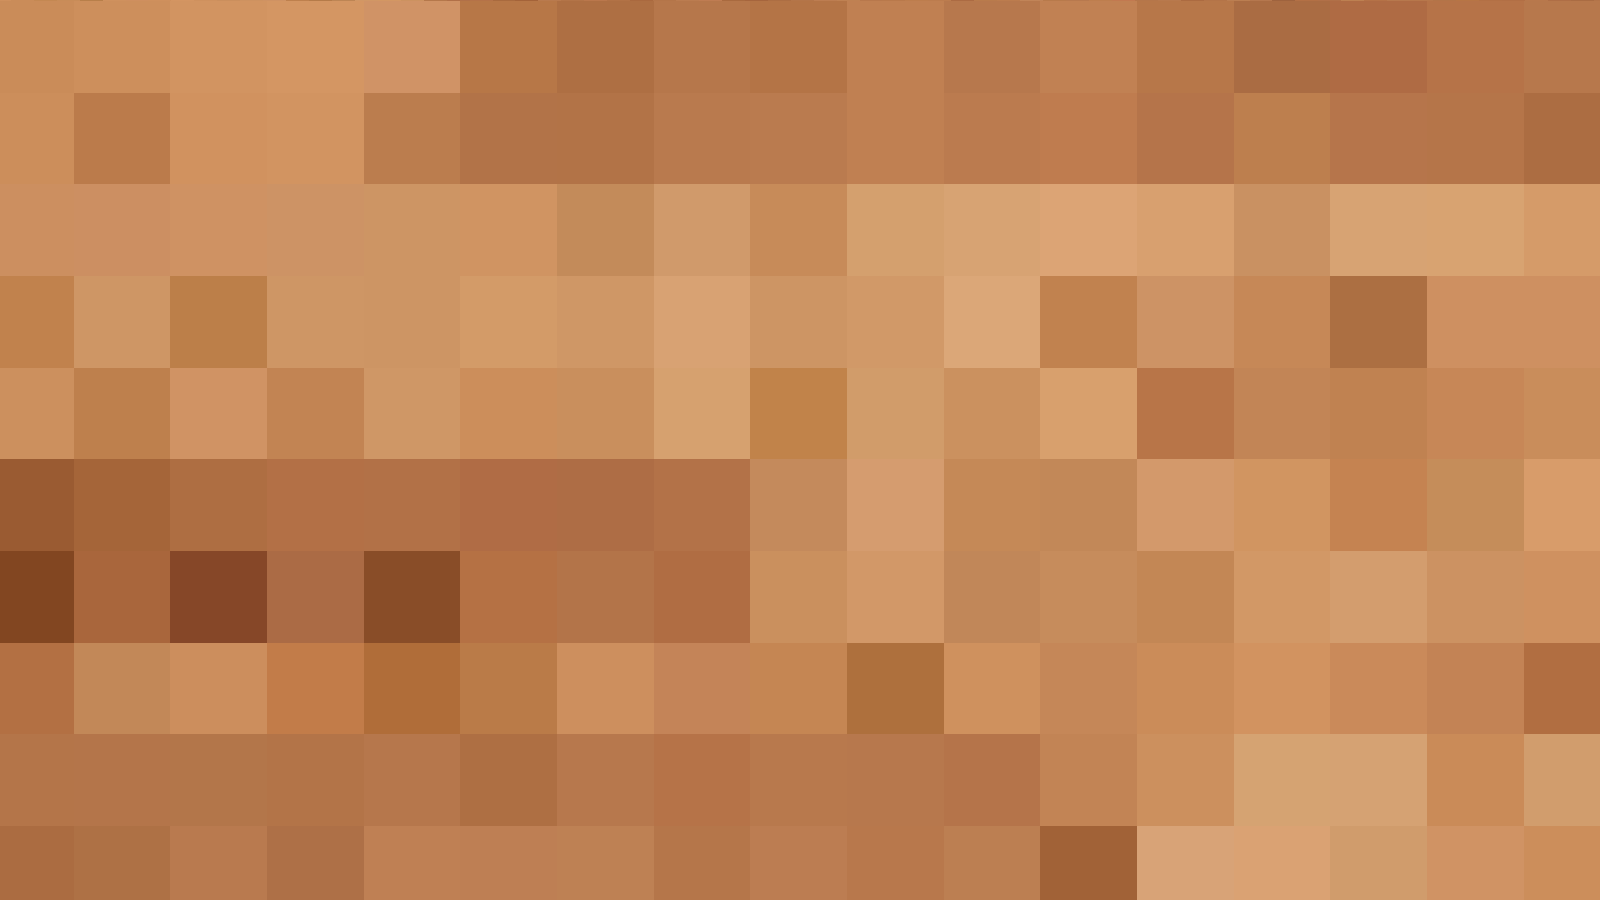
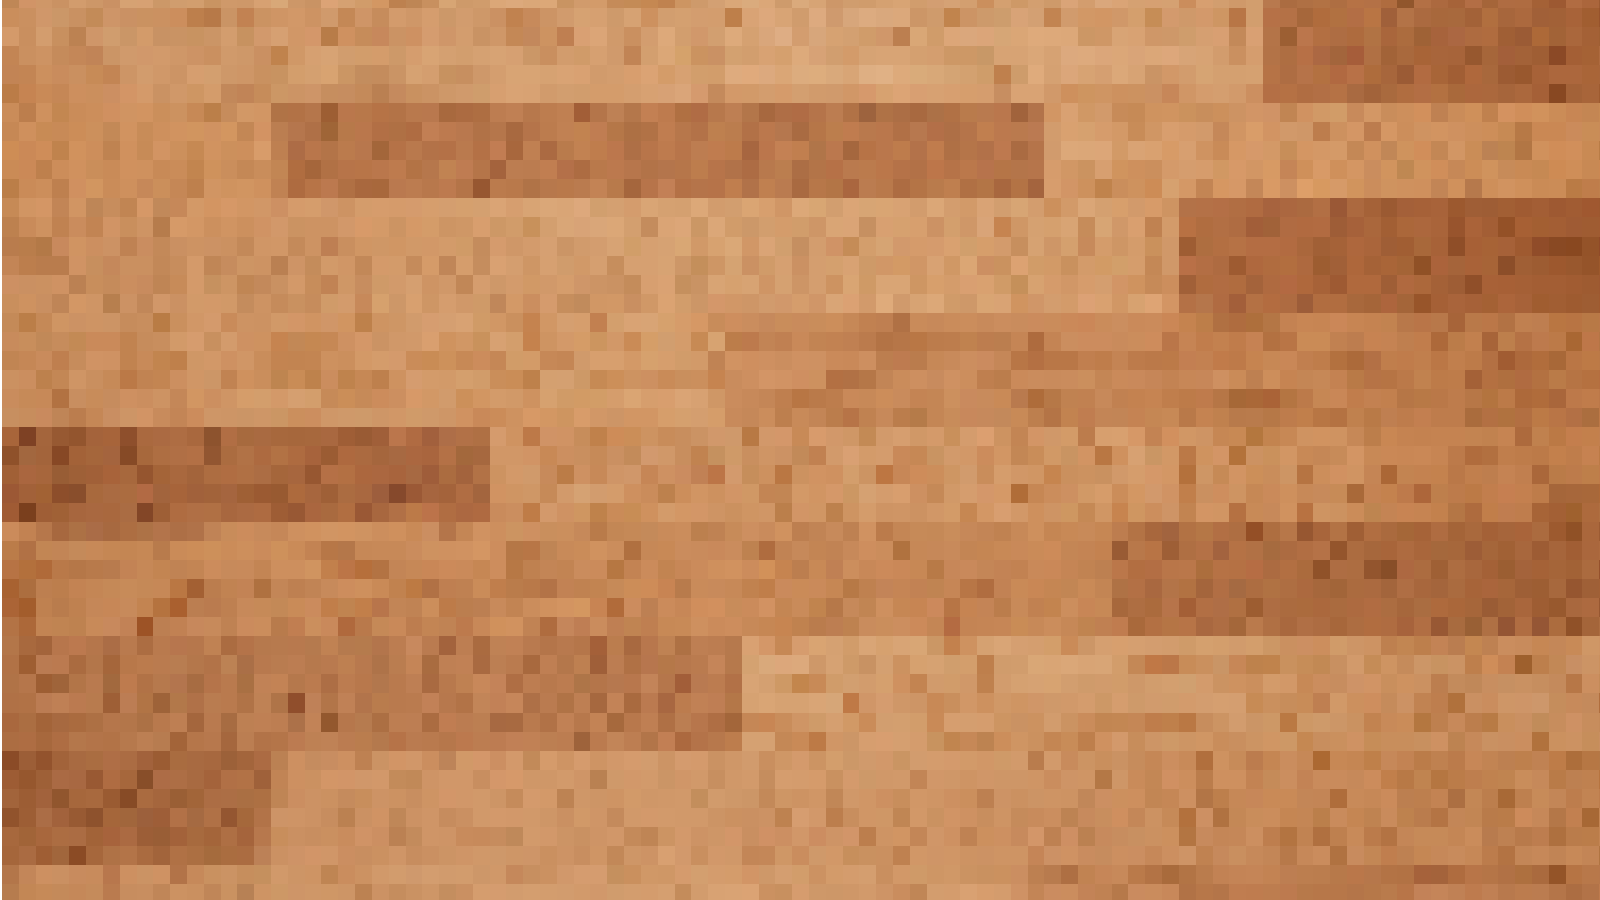
Implemented wood and pool custom backgrounds

diff --git a/CrazyOnCode_PA9/UI.cpp b/CrazyOnCode_PA9/UI.cpp
@@ -59,12 +59,11 @@ Scoreboard::~Scoreboard()
 
 void Scoreboard::draw()
 {
-    DrawText("Player 1:", position.x, position.y, fontSize, textColor);
-    DrawText(std::to_string(score1).c_str(), position.x + 120, position.y, fontSize, textColor);
-
-    // Draws Player 2 below player 1
-    DrawText("Player 2:", position.x, position.y + fontSize + 5, fontSize, textColor);
-    DrawText(std::to_string(score2).c_str(), position.x + 120, position.y + fontSize + 5, fontSize, textColor);
+    // No player details just scores, left being P1 score, right being P2 score
+    // Refer to header for changing size of the scores with the new FONT_SIZE macro
+    DrawText(std::to_string(score1).c_str(), position.x + 10, position.y, fontSize, textColor);
+    // Now draws in the top-right corner
+    DrawText(std::to_string(score2).c_str(), position.x + 1525, position.y, fontSize, textColor);
 }
 
 void Scoreboard::update() 
@@ -97,55 +96,55 @@ void Scoreboard::resetScore()
     score2 = 0;
 }
 
-void Scoreboard::testUI()
-{
-    // Initialize window
-    const int screenWidth = 1600;
-    const int screenHeight = 900;
-    InitWindow(screenWidth, screenHeight, "Scoreboard Demo");
-    InitAudioDevice(); // Make sure to place this before loadSounds()
-    Texture2D woodTex = drawWood(); // Added for Custom Texture
-    loadSounds();
-    SetTargetFPS(60);
-
-    // Main game loop
-    while (!WindowShouldClose())
-    {
-        BeginDrawing();
-        ClearBackground(RAYWHITE);
-        DrawTexture(woodTex, 0, 0, WHITE); // Texture Stuff
-        // Draw the scoreboard
-        draw();
-        
-        if (IsKeyPressed('T'))
-        {
-            addScoreP1();
-            playFire();
-        }
-        if (IsKeyPressed('Y'))
-        {
-            addScoreP2();
-            playDestroyed();
-        }
-
-        if (foundWinner() == 1)
-        {
-            std::cout << "Player 1 won!" << std::endl;
-            resetScore();
-        }
-        if (foundWinner() == 2)
-        {
-            std::cout << "Player 2 won!" << std::endl;
-            resetScore();
-        }
-
-        EndDrawing();
-    }
-
-    UnloadTexture(woodTex); // Texture code fragment
-    CloseAudioDevice(); // Similarly to Initwindow having a CloseWindow(), InitAudioDevice has this
-    CloseWindow();
-}
+//void Scoreboard::testUI()
+//{
+//    // Initialize window
+//    const int screenWidth = 1600;
+//    const int screenHeight = 900;
+//    InitWindow(screenWidth, screenHeight, "Scoreboard Demo");
+//    InitAudioDevice(); // Make sure to place this before loadSounds()
+//    //Texture2D woodTex = drawWood(); // Added for Custom Texture
+//    loadSounds();
+//    SetTargetFPS(60);
+//
+//    // Main game loop
+//    while (!WindowShouldClose())
+//    {
+//        BeginDrawing();
+//        ClearBackground(RAYWHITE);
+//        //DrawTexture(woodTex, 0, 0, WHITE); // Texture Stuff
+//        // Draw the scoreboard
+//        draw();
+//        
+//        if (IsKeyPressed('T'))
+//        {
+//            addScoreP1();
+//            playFire();
+//        }
+//        if (IsKeyPressed('Y'))
+//        {
+//            addScoreP2();
+//            playDestroyed();
+//        }
+//
+//        if (foundWinner() == 1)
+//        {
+//            std::cout << "Player 1 won!" << std::endl;
+//            resetScore();
+//        }
+//        if (foundWinner() == 2)
+//        {
+//            std::cout << "Player 2 won!" << std::endl;
+//            resetScore();
+//        }
+//
+//        EndDrawing();
+//    }
+//
+//    //UnloadTexture(woodTex); // Texture code fragment
+//    CloseAudioDevice(); // Similarly to Initwindow having a CloseWindow(), InitAudioDevice has this
+//    CloseWindow();
+//}
 
 // Use this to play fire sound example shown in testUI
 void Scoreboard::playFire()

diff --git a/CrazyOnCode_PA9/gameManager.cpp b/CrazyOnCode_PA9/gameManager.cpp
@@ -1,6 +1,6 @@
 //primary programmer: Noah Julius
 #include "gameManager.hpp"
-
+#include "common.hpp"
 void GameManager::playerHitCheck(Player& player)
 {
 
@@ -84,12 +84,17 @@ void GameManager::frameUpdateBullets()//updates all bullets, deletes "inactive" 
 
 void GameManager::play()//initializes stuff then loops for entirety of game window being open
 {
+	// Texture2D woodTex = drawWood(); texture stuff
+	Texture2D poolTex = drawPool();
+
 	// Gameplay Loop
 	while (!WindowShouldClose())
 	{
 		//make window exist
 		BeginDrawing();
 		ClearBackground(BG_COLOR);
+		// DrawTexture(woodTex, 0, 0, WHITE); texture stuff
+		DrawTexture(poolTex, 0, 0, WHITE);
 
 		//frame update
 		frameUpdatePlayers();
@@ -103,7 +108,8 @@ void GameManager::play()//initializes stuff then loops for entirety of game wind
 		
 		EndDrawing();
 	}
-
+	// UnloadTexture(woodTex); texture stuff
+	UnloadTexture(poolTex);
 	CloseWindow();
 
 }

diff --git a/CrazyOnCode_PA9/common.hpp b/CrazyOnCode_PA9/common.hpp
@@ -1,17 +1,12 @@
+// Hewwo, this is misc. stuff that give the game some sound and more visuals so backgrounds,
+// sound effects, background music, and maybe menu system...we'll see
+// In the process of testing all assets, and organizing if working
 #include "raylib.h"
 
-// Note: AtariWood.png must be in the working directory
-Texture2D drawWood() 
-{
-    // LoadTexture must be called AFTER InitWindow()
-    Texture2D background = LoadTexture("AtariPool.png");
-    // Draw texture at specific coordinates (x, y, tint)
-    DrawTexture(background, 1600, 900, WHITE);
-    return background;
-}
+// Wood background methods
+Texture2D drawWood();
+void unloadWood(Texture2D background);
 
-bool unloadWood(Texture2D background) 
-{
-    UnloadTexture(background); // Free GPU VRAM
-    return true;
-}
+// Pool background methods
+Texture2D drawPool();
+void unloadPool(Texture2D background2);

diff --git a/CrazyOnCode_PA9/UI.hpp b/CrazyOnCode_PA9/UI.hpp
@@ -3,6 +3,7 @@
 #include <string>
 
 #define MAX_ROUNDS 15
+#define FONT_SIZE 100
 constexpr const char* FIRE_SOUND_PATH = "smoke.wav";
 constexpr const char* DESTROYED_SOUND_PATH = "destroyed.wav";
 
@@ -20,7 +21,7 @@ private:
     const char* destroyedPath;
     bool soundsLoaded;
 public:
-    Scoreboard(Vector2 pos = { 10, 10 }, int fontSize = 20,
+    Scoreboard(Vector2 pos = { 10, 10 }, int fontSize = FONT_SIZE,
         unsigned int numRounds = MAX_ROUNDS, 
         const char* fire = FIRE_SOUND_PATH, 
         const char* destroyed = DESTROYED_SOUND_PATH);
@@ -43,7 +44,7 @@ public:
     int getScore1() const;
     int getScore2() const;
 
-    void testUI();
+    //void testUI();
     unsigned int foundWinner() const;
 
 };

diff --git a/CrazyOnCode_PA9/common.cpp b/CrazyOnCode_PA9/common.cpp
@@ -1,0 +1,21 @@
+#include "common.hpp"
+
+// Used before game loop
+Texture2D drawWood()
+{
+    return LoadTexture("AtariWood.png");
+}
+Texture2D drawPool()
+{
+    return LoadTexture("AtariPool.png");
+}
+
+// Frees GPU VRAM, should be placed after game loop
+void unloadWood(Texture2D background)
+{
+    UnloadTexture(background); 
+}
+void unloadPool(Texture2D background2)
+{
+    UnloadTexture(background2);
+}

diff --git a/CrazyOnCode_PA9/gameManager.hpp b/CrazyOnCode_PA9/gameManager.hpp
@@ -4,12 +4,13 @@
 #include "Player.hpp"
 #include "UI.hpp"
 #include "wall.hpp"
+#include "common.hpp"
 
 #include <vector>
 #include <list>
 
-#define SCREENWIDTH 900
-#define SCREENHEIGHT 500
+#define SCREENWIDTH 1600
+#define SCREENHEIGHT 900
 #define BG_COLOR {137, 195, 71, 255}
 
 using std::vector;
